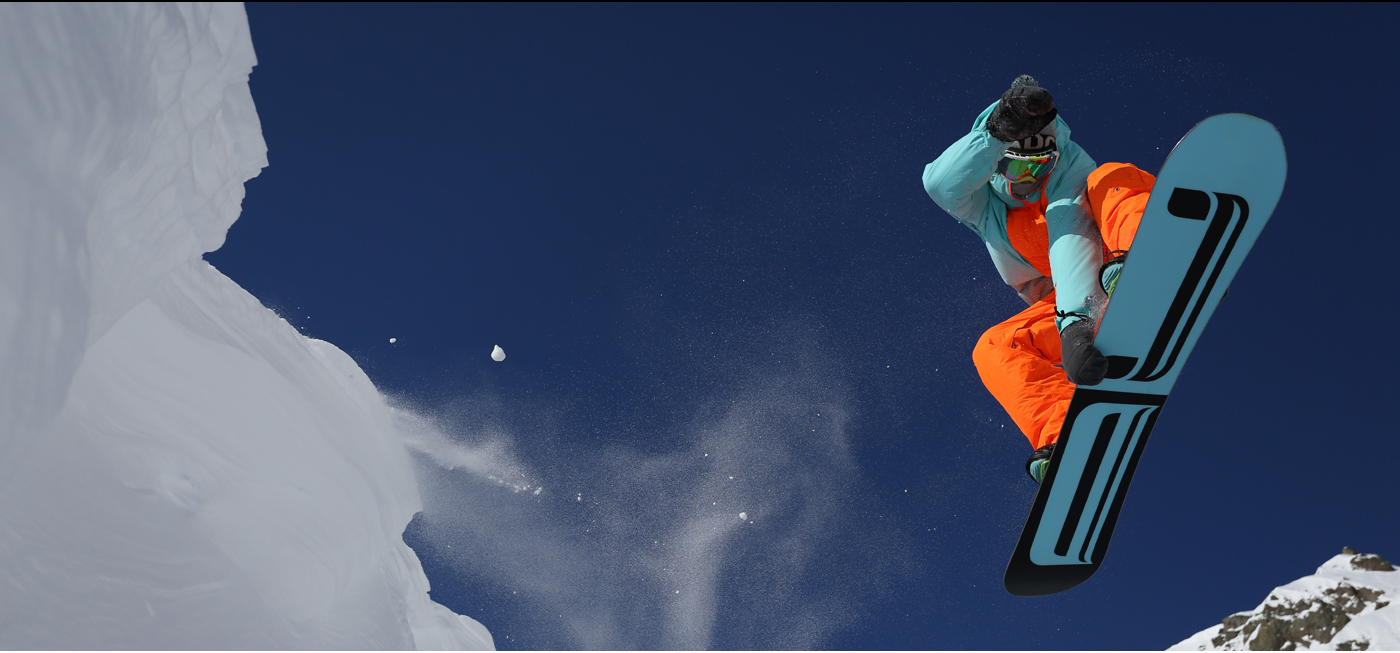
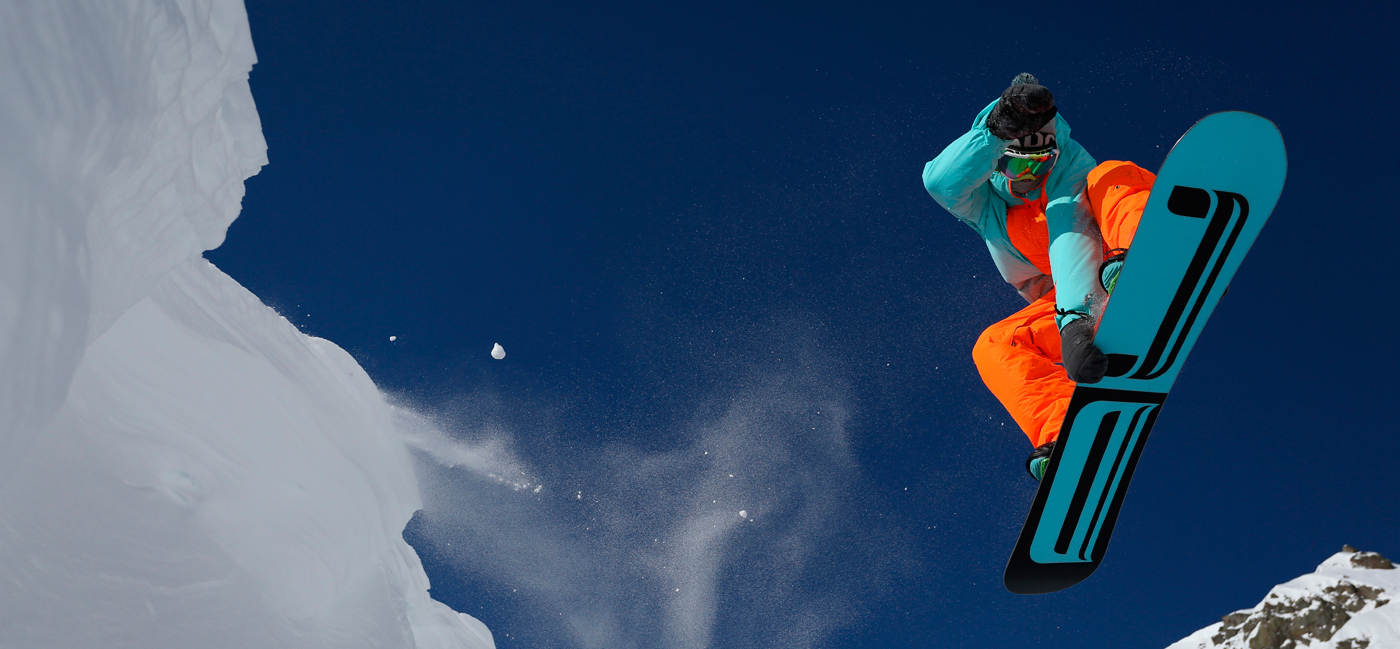
增加pane-1

Changed region(s): [[0.0, 0.0, 1.0, 1.0], [0.3686, 0.7088, 0.5529, 0.832], [0.5836, 0.4314, 0.6143, 0.4622]]

diff --git a/public/snow/index.html b/public/snow/index.html
@@ -27,16 +27,23 @@
         </div>
         <ul class="public-header-login">
           <li class="login-text"><a href="" title="注册">注册</a></li>
-          <li class="login-text"><a href="">登录</a></li>
+          <li class="login-text"><a href="" title="登录">登录</a></li>
         </ul>
       </div>
     </div>
     <div class="index-banner">
       <div class="index-banner-bg">
         <img src="images/banner-1.jpg" alt="banner">
+        <!--&lt;!&ndash;<img class="index-banner-font" src="images/banner-font-1.png" alt="">&ndash;&gt;   背景图片加字体-->
       </div>
     </div>
-    <div class="public-container index-panel"></div>
+    <div class="public-container index-panel">
+     <div class="index-panel-1">
+       <h2>SNOWBOARDS</h2>
+       <p>ALIQUAM ERAT VOLUTPAT. CURABITUR UT CONSEQUAT ARCU EGET LAOREET EST</p>
+       <div class="index-panel-x"></div>            <!-- X图片-->
+     </div>
+    </div>
     <div class="public-container index-panel"></div>
     <div class="public-container index-panel"></div>
     <div class="public-footer"></div>

diff --git a/public/snow/css/index.css b/public/snow/css/index.css
@@ -3,10 +3,18 @@
     background: #2cafe3;
 }
 .index-banner-bg{
-    height: 650px;
+    height: 648px;
     overflow: hidden;
 }
 .index-banner-bg img{
     margin: 0 auto;
 }
+/*.index-banner .index-banner-font{*/
+    /*position: absolute;*/
+    /*width: 493px;*/
+    /*height: 150px;*/
+    /*float: left;*/
+   /*left: 100px;*/
+/*}*/
+
 

diff --git a/public/snow/css/common.css b/public/snow/css/common.css
@@ -68,10 +68,10 @@
     font-family: "Microsoft YaHei";
     border: 5px;
     color: #adf1ff;
-}
 
+}
 .public-container{
     position: relative;
     margin: 0 auto;
-    width: 1100px;
+    width: 1200px;
   }
